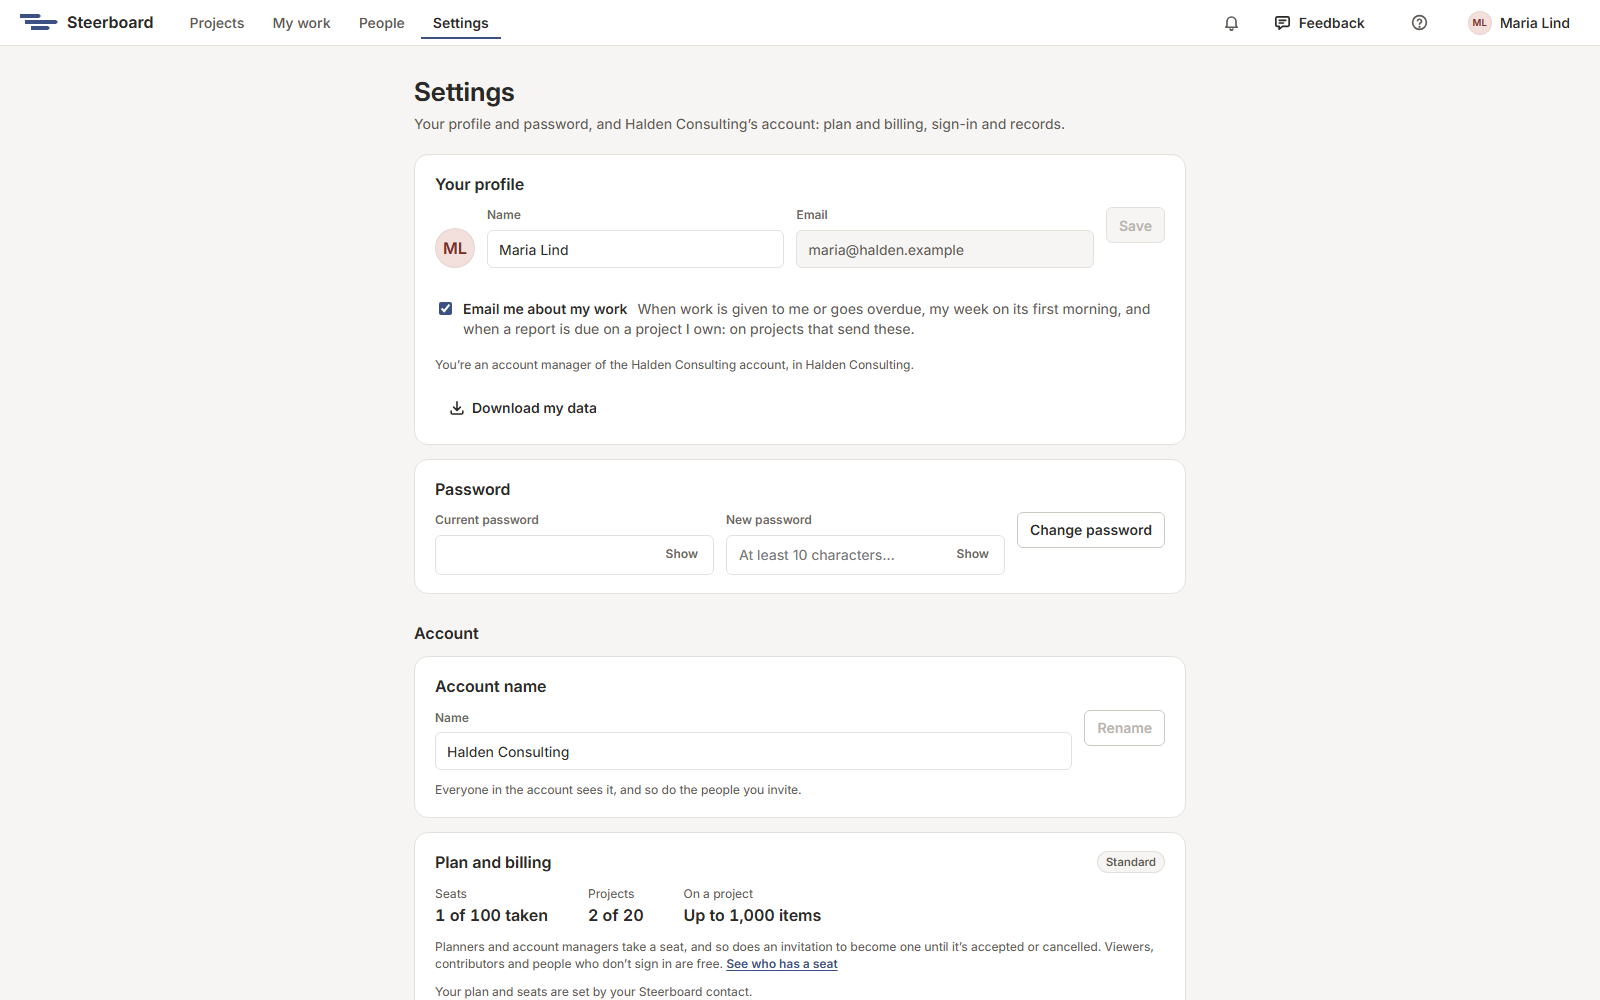
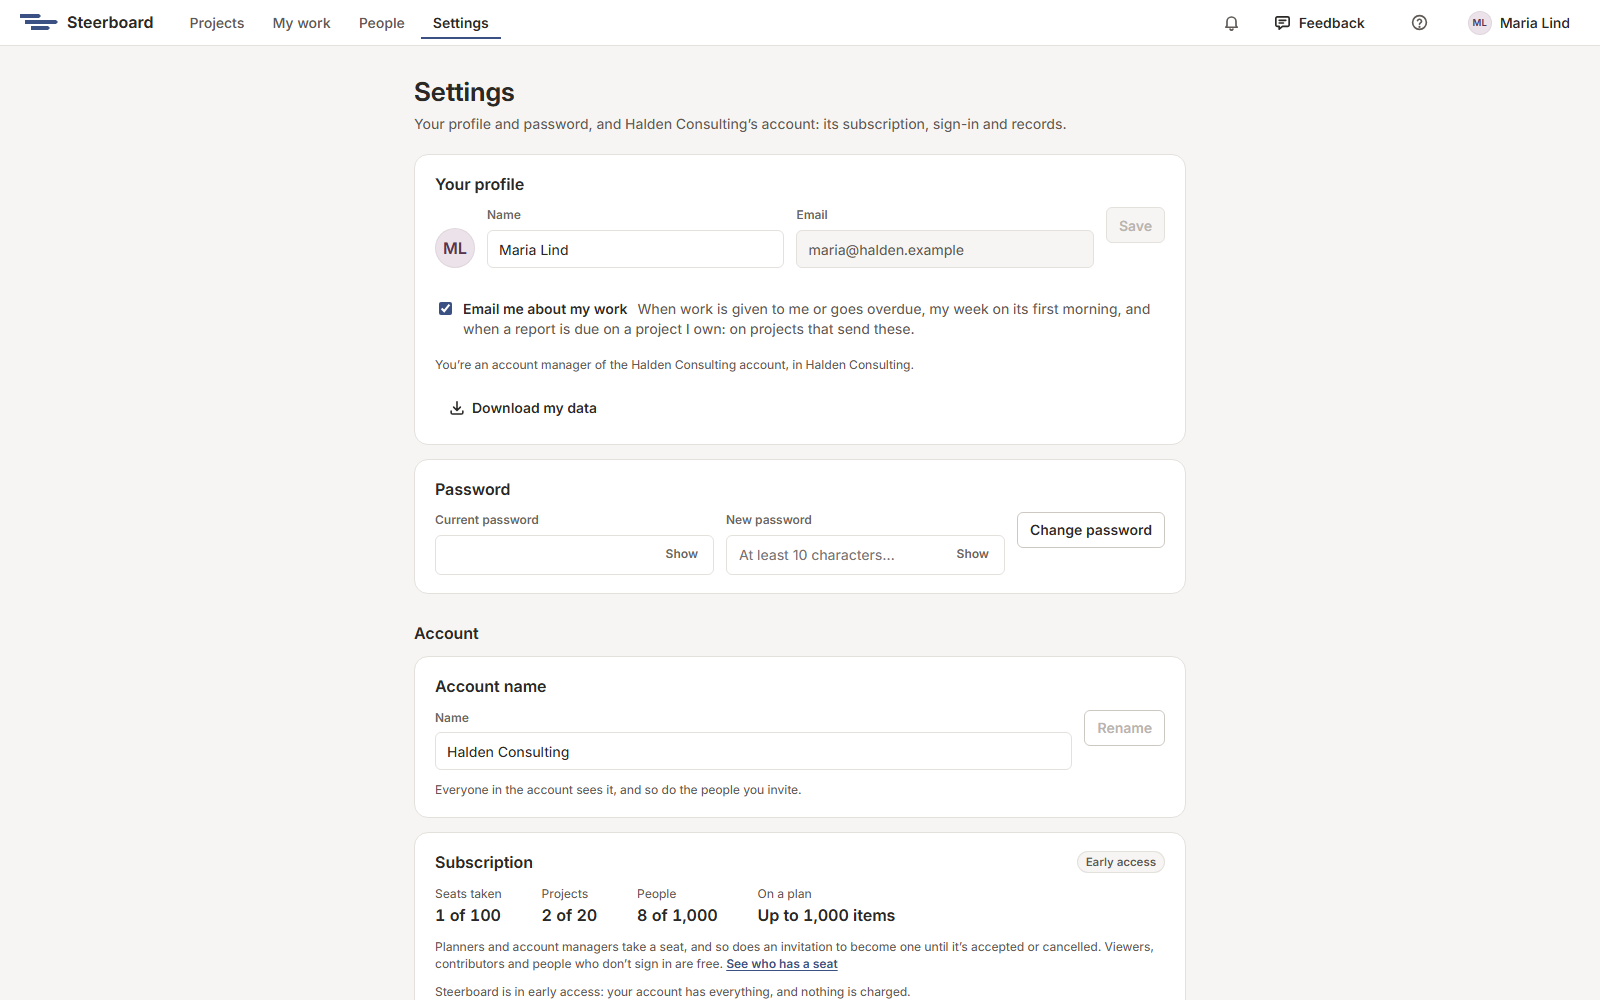
Tiers: a pricing model, configurable in the console, and paying through Stripe
The user, 2026-11-14: a pricing model with a free tier, never called plans
(a plan is a project's), configurable so what a tier includes can change
later, paid through Stripe, shown on the home page and in Settings.

- Tiers are data (src/model/tiers.ts, server/tiers.ts, replacing plans.ts):
  Free, Team, Business and a hidden Early access to start with. The seat
  (planners and account managers) is the unit of price; viewers,
  contributors and people who don't sign in are free on every tier.
- The platform console has a Tiers tab: each tier's name, prices, limits,
  features, whether it's on offer; the currency; publishing the prices and
  bringing tiers into force. Until they're in force every account without a
  tier of its own has Early access and nothing can be bought, so this changes
  nothing for anyone on release.
- Two new features a tier can leave out: the slides' own logo and template,
  and emails about work and reports. Refused on the server, locked on screen.
- Billing (server/billing.ts; database version 20): checkout for a tier by the
  month or the year, changing tier and seats, cancelling and taking it back,
  the billing portal, signed webhooks, and "Make these in Stripe".
- A stand-in for Stripe (scripts/stripe-stand-in.ts, npm run stripe:stand-in)
  to try all of it without an account there; the tests and npm run ui:check
  pay through it.
- Settings has a Subscription card; the home page a Pricing part, there once
  the prices are published.
[…]

diff --git a/pages/sharing/settings.md b/pages/sharing/settings.md
@@ -24,7 +24,7 @@ signed in where you are; other devices are signed out.
 | Section | What it does |
 |---|---|
 | **Account name** | Everyone in the account sees it, and so do the people you invite. |
-| **Plan and billing** | The account's plan and what it allows: how many seats it has (planners and account managers each take one, and so does an invitation to become one; viewers and contributors are free), how many projects the account keeps (archived ones count), and how many items a project's plan can hold. |
+| **Subscription** | The account's tier and what it holds: how many seats it has (planners and account managers each take one, and so does an invitation to become one; viewers and contributors are free), how many projects the account keeps (archived ones count), how many people it can hold, and how many items a project's plan can hold. See [The subscription](#the-subscription). |
 | **Who can add people** | Who may bring in people who sign in: account managers only, planners too as viewers and contributors, or planners at any level. See [People and groups](people.md#who-can-invite). |
 | **Links without signing in** | Whether a project's owner can turn on a view-only link to its status report: see [Sharing a project](sharing.md#a-link-that-opens-without-signing-in). Untick **Projects can have a view-only link** and no project can turn one on, and links that were on stop opening until it's ticked again. |
 | **Account owner** | Whose the account is, and **Hand over…** for handing it to another account manager. See [People and groups](people.md#the-account-owner). |
@@ -34,14 +34,54 @@ signed in where you are; other devices are signed out.
 
 The account's people and groups are on the [People](people.md) page.
 
-## What a plan allows
+## The subscription
 
-Each plan sets how many seats the account has, how many people it can hold in
-all, how many projects it keeps, and how many items (activities, milestones
-and work packages) one project's plan can hold. The Standard plan allows 100
-seats, 1,000 people, 20 projects and 1,000 items on a project. **Plan and billing** shows where the account stands.
+An account's subscription is on a tier. The tier sets how many seats the
+account has, how many people it can hold in all, how many projects it keeps,
+and how many items (activities, milestones and work packages) one project's
+plan can hold. It also says which of these the account has: your own logo and
+a client's template on the slides, emails about work and reports, project
+owners inviting people, single sign-on, the audit log, and the account's data
+as a file.
+
+Steerboard is in early access for now. Every account has all of it and nothing
+is charged, within 100 seats, 1,000 people, 20 projects and 1,000 items on a
+project. **Subscription** says so, and shows where the account stands under
+**Seats taken**, **Projects** and **People**.
 
 When something would go past a limit, Steerboard says so and doesn't do it:
 the invitation isn't sent, the project isn't created, or the change to the
 plan isn't saved. A project already over its limit can still be changed and
 made smaller, but not bigger.
+
+### Choosing a tier
+
+When tiers apply, a new account starts on the one that costs nothing, and
+**Subscription** lists what it holds. **See the tiers** puts the tiers side by
+side, with what each holds and what a seat costs, billed **Yearly** or
+**Monthly**. Choose one, say how many seats you need, and pay on Stripe's
+checkout page. You come back to Settings, and the account is on its new tier
+within a minute.
+
+Only planners and account managers need a seat. Viewers, contributors and
+people who don't sign in are free on every tier.
+
+After that:
+
+- **Change tier** moves the account to another tier, or to the other way of
+  paying. Stripe works out the difference for the time left.
+- **Paid seats** and **Change seats** add seats or give some back, never
+  fewer than are taken.
+- **Invoices and payment** opens Stripe's page for your invoices, your card,
+  and your company's address and tax number.
+- **Cancel the subscription** is among the tiers, under the one that costs
+  nothing. The subscription runs to the end of what's paid for. Until then
+  **Keep the subscription** takes the cancellation back.
+
+When a subscription ends, the account is back on the tier that costs nothing,
+and nothing is deleted. What that tier doesn't include is locked. What's over
+its limits stays and can't grow: the planners keep their seats and the
+projects stay, and no more can be added until there's room.
+
+Something the account's tier doesn't include shows where it would be, with a
+lock, so you know it's there.

diff --git a/pages/reference/glossary.md b/pages/reference/glossary.md
@@ -50,8 +50,18 @@ the next one ahead.
 
 **Row.** A line on the board, holding as many items as fit side by side.
 
+**Seat.** What a planner or an account manager takes in the account's
+subscription. Viewers, contributors and people who don't sign in take none.
+
 **Status report.** The report on how the project stands, written from the
 plan: the **Report** screen, its slides, and each report you issue.
+
+**Subscription.** What the account has with Steerboard: its tier, and the
+seats it pays for. In Settings: **Subscription**.
+
+**Tier.** A level of subscription: how many seats, people and projects the
+account has room for, and what it includes. A tier is never called a plan: a
+plan is a project's plan.
 
 **Work package.** A bracket over some work, rolling up its dates, progress
 and status. Put work in one from the right-click menu on the plan.

diff --git a/pages/project-settings.md b/pages/project-settings.md
@@ -42,10 +42,16 @@ They go to people on the project's team who sign in and can open it, at the
 address they sign in with. People who don't sign in get none. Anyone can stop
 their own under **Settings**, with **Email me about my work**.
 
+Emails are part of the account's [subscription](sharing/settings.md#the-subscription).
+On a tier without them the boxes can't be ticked, a report isn't sent by email
+when it's issued, and a project that had some turned on sends none.
+
 ## Your own slides
 
 Under **Slides**, anyone who can edit the project sets how its status report's
-slides look.
+slides look. The logo and the template are part of the account's
+[subscription](sharing/settings.md#the-subscription): on a tier without them
+they show locked, and the slides are Steerboard's own.
 
 | | |
 |---|---|

diff --git a/pages/getting-started/first-project.md b/pages/getting-started/first-project.md
@@ -78,9 +78,9 @@ Each card's menu (the three dots) holds the rest: make a copy, download the
 project as a file, archive it when the work is over, or delete it. A deleted
 project can be restored from **Recently deleted** for 30 days.
 
-An account keeps up to 20 projects on the Standard plan, archived ones
-included; deleting one you no longer need makes room. See
-[What a plan allows](../sharing/settings.md#what-a-plan-allows).
+An account keeps as many projects as its tier has room for, archived ones
+included: 20 while Steerboard is in early access. Deleting one you no longer
+need makes room. See [The subscription](../sharing/settings.md#the-subscription).
 
 ## Next
 

diff --git a/pages/whats-new.md b/pages/whats-new.md
@@ -4,6 +4,11 @@ What has changed in Steerboard, newest first.
 
 ## November 2026
 
+**The account's subscription.** Settings has a **Subscription** card for
+account managers: the account's tier, and how many of its seats, projects and
+people are used. Steerboard is in early access, so every account still has
+everything and nothing is charged.
+
 **Contributors and viewers see only what they can do.** A contributor was
 shown **New project**, the **People** page and **Make a copy**, and was told
 no when they tried. Those are for planners and account managers, and are no
